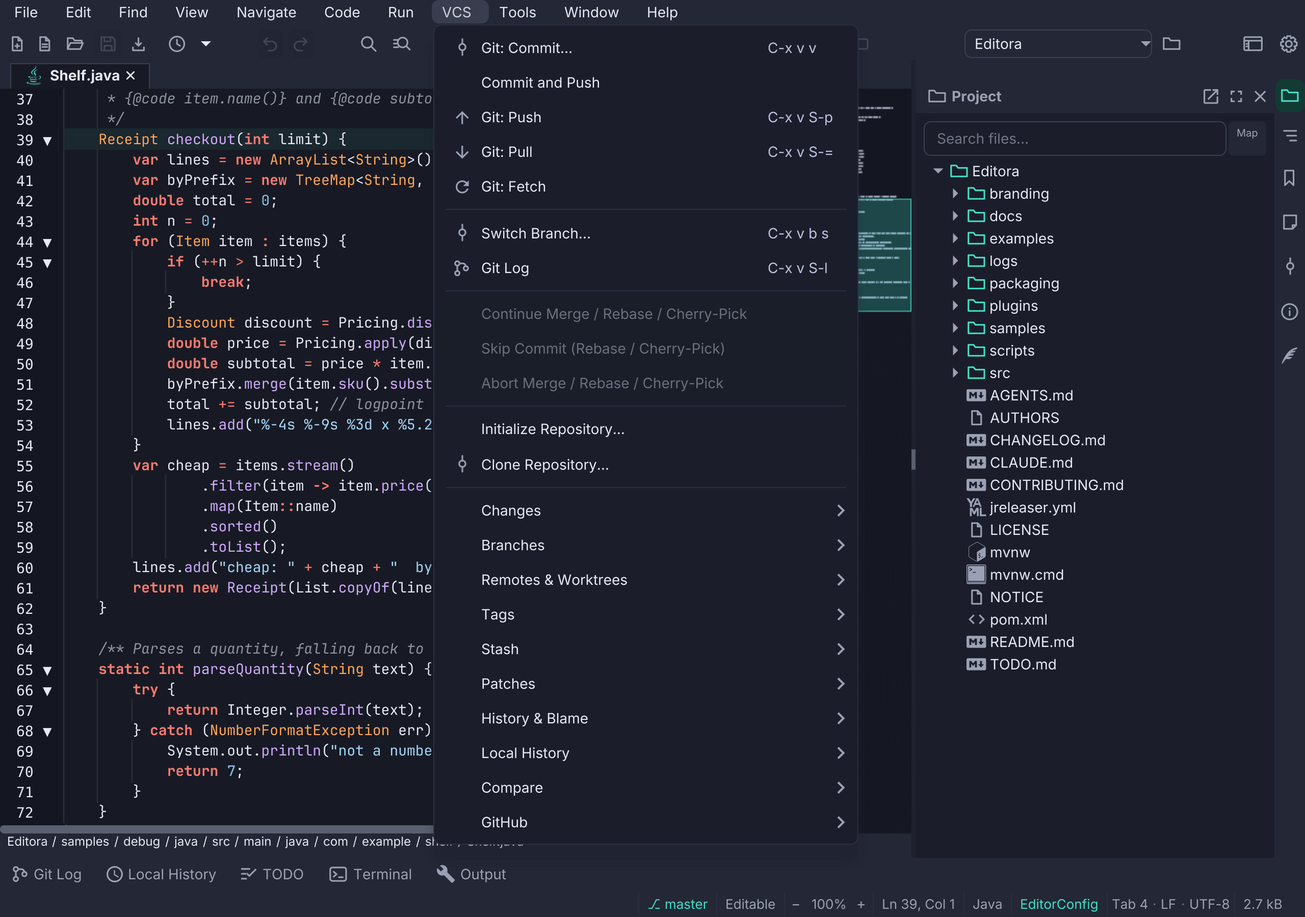
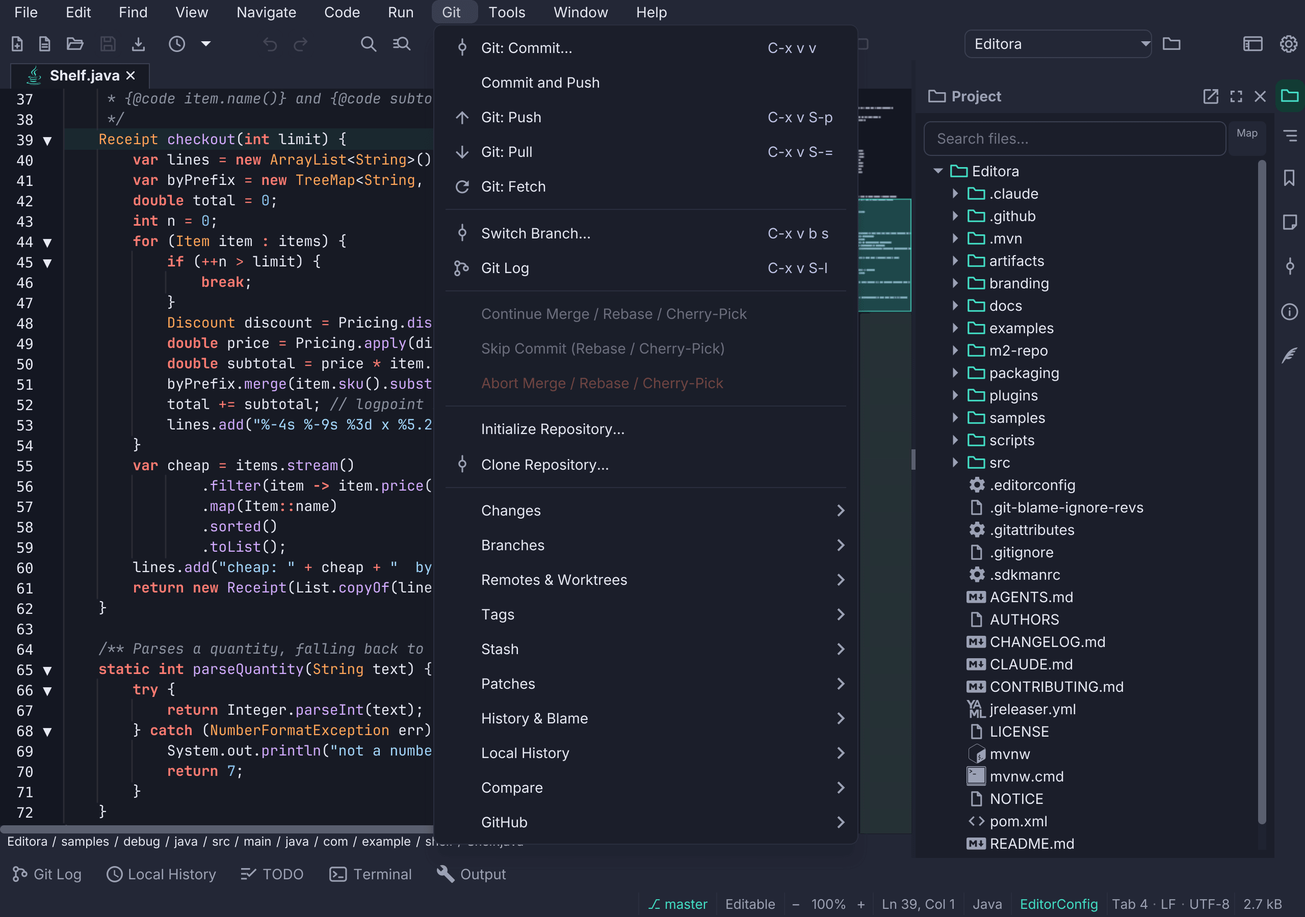
docs: the Git menu, Run's debugger submenus, New Maven Project
Follows Editora #1593:

- The VCS menu is named Git: git, github, workspace, getting-started and
  the menu-bar feature page (and GenFeatures).
- Run > Debugger is four submenus (Launch and Attach, Stepping,
  Breakpoints, Debugger): the Run menu overview in run-debug lists them,
  and each mention names the submenu its command is in.
- "Maven: New Project…" is "Maven: New Maven Project…" (build-tools,
  commands.ts by hand until the next generation).
- Encrypt File is no longer in Simple UI mode's File menu.
- menu-bar.png, its dark twin and thumbnail are reshot from the #1593
  branch, with the menu titled Git.

diff --git a/src/lib/commands.ts b/src/lib/commands.ts
@@ -751,8 +751,8 @@ export const commandGroups: CmdGroup[] = [
       { title: "Leiningen: Run Custom Task(s)…", id: "lein.runCustom", desc: "Prompt for a freeform Leiningen task/argument string and run it." },
       { title: "Leiningen: Show Actions", id: "lein.showActions", desc: "Open the Leiningen actions popup (run, test, check, uberjar and the other common lein tasks)." },
       { title: "Leiningen: Stop", id: "lein.stop", desc: "Stop the running Leiningen process." },
-      { title: "Maven: New Project…", id: "maven.newProject", desc: "Create a new Maven project from an archetype and open it in its own window." },
-      { title: "Maven: New Project in Folder…", id: "maven.newProjectHere", desc: "Ask for a folder, then create a new Maven project inside it." },
+      { title: "Maven: New Maven Project…", id: "maven.newProject", desc: "Create a new Maven project from an archetype and open it in its own window." },
+      { title: "Maven: New Maven Project in Folder…", id: "maven.newProjectHere", desc: "Ask for a folder, then create a new Maven project inside it." },
       { title: "Maven: Refresh pom.xml", id: "maven.refresh", desc: "Force re-parse the detected pom.xml now (e.g. after an external edit)." },
       { title: "Maven: Rerun Last", id: "maven.rerunLast", desc: "Re-run the most recent Maven goal/phase invocation." },
       { title: "Maven: Run Custom Goal(s)…", id: "maven.runCustom", desc: "Prompt for a freeform Maven goal/phase string and run it." },

diff --git a/scripts/GenFeatures.java b/scripts/GenFeatures.java
@@ -201,16 +201,16 @@ Browse the [full command list](/commands) or the [keybindings reference](/keybin
 """),
     new Feature("menu-bar", KB, 8, false,
         "A menu bar, over the same commands",
-        "<strong>File / Edit / Find / View / Navigate / Code / Run / VCS / Tools / Window / Help</strong> menus, built over the command registry, so every item shows its live keybinding. Hide it in one keystroke.",
+        "<strong>File / Edit / Find / View / Navigate / Code / Run / Git / Tools / Window / Help</strong> menus, built over the command registry, so every item shows its live keybinding. Hide it in one keystroke.",
         """
 The command palette lists everything, but it is hard to browse. It helps when you know roughly what a command is called, and less when you want to see what the editor can do. The menu bar is for that.
 
-**File / Edit / Find / View / Navigate / Code / Run / VCS / Tools / Window / Help.** Every item names a registered [command](/features/command-driven-core), the same object the palette lists and the keymap binds, so the menu cannot drift out of step with what Editora can do.
+**File / Edit / Find / View / Navigate / Code / Run / Git / Tools / Window / Help.** Every item names a registered [command](/features/command-driven-core), the same object the palette lists and the keymap binds, so the menu cannot drift out of step with what Editora can do.
 
 - Each entry shows its **current keybinding**, and updates when you [switch keymaps](/features/keymaps).
 - A command whose feature is switched off appears **greyed rather than vanishing**, so the menu stays a stable map instead of rearranging itself as you toggle features.
 - Almost every item that can carry an **icon** does, and it is the same glyph you see for that action in a right-click menu, so Save looks the same wherever you reach it from. About a third are left blank rather than given an invented glyph. The icon column is reserved either way, so the titles still line up.
-- Menus that grew long keep their daily items at the top and the rest one level down: VCS groups its commands by what they act on, and File keeps its export formats under **Export**.
+- Menus that grew long keep their daily items at the top and the rest one level down: Git groups its commands by what they act on, Run keeps the debugger's in four submenus, and File keeps its export formats under **Export**.
 - On **macOS** it sits in the system menu bar.
 
 It is a curated subset. Editora registers over seven hundred commands, and a menu listing all of them would be harder to use than the palette, which remains the complete index.
@@ -1242,7 +1242,7 @@ static final Map<String, String> ALT = Map.ofEntries(
     Map.entry("macros", "The command palette filtered by \"macro\", listing the macro commands with F3, F4 and C-x e"),
     Map.entry("markdown-preview", "A Markdown file in Split view, with headings, a task list and a table rendered beside the source"),
     Map.entry("mcp", "Settings → MCP Server with the loopback MCP server turned on"),
-    Map.entry("menu-bar", "The VCS menu open, listing Git commands with their keybindings and submenus such as Branches and Stash"),
+    Map.entry("menu-bar", "The Git menu open, listing its commands with their keybindings and submenus such as Branches and Stash"),
     Map.entry("mermaid", "A Mermaid flowchart in Split view, with the rendered diagram beside its source"),
     Map.entry("multiple-cursors", "Five carets in a column of Java lines, the same word typed at each"),
     Map.entry("plugins", "The Browse Plugins picker listing registry plugins with their versions and descriptions"),

diff --git a/src/content/docs/run-debug.md b/src/content/docs/run-debug.md
@@ -899,13 +899,20 @@ script as it runs.
 The keys are the Emacs keymap's; the other keymaps' keys are listed under
 [Debugger keys](/docs/keymaps#debugger-keys). The step commands are also
 buttons in the Debug window, and most debugger actions are in the **Run** menu.
-Its top level has Start / Continue, Debug Main Class, Attach, Attach to
-Process, Reattach, Stop, Stop All, Restart and Toggle Breakpoint. Start
-Configuration, Start Compound, Edit Compounds, stepping (by line or by instruction), evaluate, watches, pinned values,
-hexadecimal values, Debug History, breakpoints (with logpoints, triggered breakpoints,
-groups, and export and import), the Threads, Loaded Sources, Modules,
-Disassembly and Memory views, Edit Debug Adapters, exception breakpoints and Show Exception are
-in its **Debugger** submenu (**Run ▸ Debugger**).
+Its top level has Start / Continue, Debug Main Class, Attach, Stop, Stop All
+and Restart. The rest is in four submenus:
+
+- **Launch and Attach**: Run and Debug Selected Configuration, Start
+  Configuration, Start Compound, Edit Compounds, Attach to Process, Reattach,
+  Debug in Browser and Attach to Browser.
+- **Stepping**: Pause, stepping by line or by instruction, Run to Cursor, Force
+  Run to Cursor and Restart Frame.
+- **Breakpoints**: Toggle Breakpoint and the other kinds of breakpoint (with
+  logpoints and triggered breakpoints), Edit Breakpoint, the breakpoint list,
+  groups, export and import, Mute Breakpoints and the exception breakpoints.
+- **Debugger**: Apply Code Changes, evaluate, watches, pinned values,
+  hexadecimal values, Show Exception, Debug History, the Threads, Loaded
+  Sources, Modules, Disassembly and Memory views, and Edit Debug Adapters.
 
 **Jump to Line** moves the program to another line without running the code in
 between. It needs a debugger that can do that: Python's debugpy can. The Java
@@ -916,7 +923,7 @@ breakpoint or logpoint on the way stops it, in any file. Exception breakpoints
 still stop the program. The breakpoints are back at the next stop, wherever
 that is: the caret line, an exception, or Pause. Its keys are `C-c C-d S-u` in
 the Emacs keymap and Ctrl+Alt+F9 (⌥⌘F9 on macOS) in the IntelliJ IDEA keymap;
-it is also in **Run ▸ Debugger** and, while the program is paused, in the
+it is also in **Run ▸ Stepping** and, while the program is paused, in the
 editor's right-click menu.
 
 The Debug window has a threads and call-stack view, a lazy variables tree with
@@ -1095,8 +1102,8 @@ exception, the status bar says so.
 
 ### Attach to Process
 
-**Debug: Attach to Process…** (`debug.attachToProcess`, in the **Run** menu
-under Attach) lists the Java, Node.js, Python, Go, Rust, C and C++ programs
+**Debug: Attach to Process…** (`debug.attachToProcess`, in **Run ▸ Launch and
+Attach**) lists the Java, Node.js, Python, Go, Rust, C and C++ programs
 running on this machine under your user, so you can attach to one without typing its address.
 It is also the last row, *A program on this machine…*, of the
 [Attach list](#starting-a-java-session) a Java file shows once the project has
@@ -1358,8 +1365,8 @@ listening on it.
 
 **Debug: Reattach** (`debug.reattach`, `C-c C-d S-a`) attaches again to the
 address this project attached to last, without asking. Before the first attach,
-the status bar says to use Attach to Running Program. Reattach is in the
-**Run** menu, under Attach.
+the status bar says to use Attach to Running Program. Reattach is in
+**Run ▸ Launch and Attach**.
 
 When Java debugging can't start, the status bar names the missing
 piece: LSP is off, the Java language server is turned off, or jdtls or
@@ -1378,14 +1385,14 @@ When you step into JDK or library code anyway, or click such a frame in the
 call stack, its source opens in a read-only tab. A stop at a breakpoint, a
 Pause or an exception still selects the nearest frame of your own code.
 
-**Debug: Smart Step Into…** (`C-c C-d s`, also in Run ▸ Debugger) lists the
+**Debug: Smart Step Into…** (`C-c C-d s`, also in Run ▸ Stepping) lists the
 calls on the current line in the order they run, for example `twice(1)`,
 `twice(2)` and `add(twice(1), twice(2))`. Pick one to step into it. On a line
 with a single call it steps straight in. The list closes when the program runs
 on.
 
 **Debug: Restart Frame** (`C-c C-d f`, the call stack's right-click menu, or
-Run ▸ Debugger) runs the method of the selected frame again from its first line
+Run ▸ Stepping) runs the method of the selected frame again from its first line
 and pauses there. It is greyed out on the bottom frame.
 
 If the connection to the debugger is lost, Editora ends the program at once and
@@ -1588,15 +1595,15 @@ removing it, until you run it again. It also stops exception breakpoints from
 stopping the program; your caught and uncaught choices come back when you turn
 it off. While breakpoints are muted, every glyph is faded, a glyph's hover says
 that none of them stops the program, Mute Breakpoints is checked in
-Run ▸ Debugger, and the Debug window's state line says "breakpoints muted".
+Run ▸ Breakpoints, and the Debug window's state line says "breakpoints muted".
 Editora keeps the choice for each project, so a muted project is still muted
 when you open it again. **Debug: Enable / Disable Breakpoint** (`C-c C-d t`)
 switches the breakpoint on the caret line. These commands are in
-**Run ▸ Debugger**.
+**Run ▸ Breakpoints**.
 
 **Debug: Break on Caught Exceptions** stops wherever an exception is thrown,
 even one the program catches. **Debug: Break on Uncaught Exceptions** stops on
-an exception that nothing catches. Both are in Run ▸ Debugger, checked when on,
+an exception that nothing catches. Both are in Run ▸ Breakpoints, checked when on,
 and in the menu of the ⚠ button in the Debug window's toolbar. While either is
 on, the ⚠ is drawn in the accent colour, and its tooltip says which are on.
 They act on the running session's language, or else on the active file's, and
@@ -1619,7 +1626,7 @@ and VS Code calls them logpoints.
 To add one in a single step, **Shift+click** the breakpoint gutter on the line,
 as in IntelliJ, or run **Debug: Add Logpoint…** (`debug.addLogpoint`;
 `C-c C-d g` in the Emacs keymap) on the caret line. It is also in the editor's
-right-click **Breakpoints** submenu and in **Run ▸ Debugger**. A small form,
+right-click **Breakpoints** submenu and in **Run ▸ Breakpoints**. A small form,
 *Add Logpoint* with the file and line in its title, asks only for the
 **Log message**. Put an expression in braces to include its value:
 `{item.name}: total = {total}`. While the program is paused, the field completes
@@ -1658,7 +1665,7 @@ on the caret line:
   keeping its condition and hit count;
 - on a line with a temporary breakpoint, it removes it.
 
-The command is also in **Run ▸ Debugger** and the editor's right-click
+The command is also in **Run ▸ Breakpoints** and the editor's right-click
 **Breakpoints** submenu. In **Edit Breakpoint**, **Remove once hit** turns any breakpoint into a
 temporary one, or back.
 
@@ -1684,7 +1691,7 @@ IntelliJ's non-suspending breakpoints do, with the values kept instead of
 logged.
 
 **Debug: Toggle Recording Breakpoint** (`debug.toggleRecordingBreakpoint`, in
-**Run ▸ Debugger** and the editor's right-click **Breakpoints** submenu) works
+**Run ▸ Breakpoints** and the editor's right-click **Breakpoints** submenu) works
 on the caret line:
 
 - on a line without a breakpoint, it adds a recording one;
@@ -1722,7 +1729,7 @@ for already is ticked, and choosing it again makes the breakpoint stop as
 usual. The list leaves out any breakpoint that waits, directly or through
 others, for this one, so two breakpoints never wait for each other. With no
 other breakpoint to wait for, the status bar says to set that one first. The
-command is in the palette, **Run ▸ Debugger**, the editor's right-click
+command is in the palette, **Run ▸ Breakpoints**, the editor's right-click
 **Breakpoints** submenu and a breakpoint's gutter menu. In **Edit
 Breakpoint**, the **Wait for** field does the same; choose *No other
 breakpoint* to stop waiting.
@@ -1753,7 +1760,7 @@ program, can stay set while you work on something else.
 
 **Debug: Move Breakpoint to Group…** (`debug.moveBreakpointToGroup`) asks for
 the group of the caret line's breakpoint: pick one of the groups there are,
-type a new name, or leave it blank for none. It is in **Run ▸ Debugger**, the
+type a new name, or leave it blank for none. It is in **Run ▸ Breakpoints**, the
 editor's right-click **Breakpoints** submenu and a breakpoint's gutter menu. On
 a line without a breakpoint, the status bar says so. In **Edit Breakpoint**,
 the **Group** field does the same.
@@ -1792,7 +1799,7 @@ set, 0 in files not found.* A running session gets the imported breakpoints at
 once, in open files and closed ones. A file that isn't an Editora breakpoints
 file, or one written by a newer Editora, is refused, and nothing is imported.
 
-Both commands are in **Run ▸ Debugger** and the palette.
+Both commands are in **Run ▸ Breakpoints** and the palette.
 
 ### Lambda breakpoints
 
@@ -1809,7 +1816,7 @@ breakpoint that stops inside the lambda the caret is in, or the first one on
 the caret's line, each time its body runs, with the lambda's parameters in
 Variables. Its keys are Shift+F9 (⇧F9 on macOS) in the VS Code, CUA and Sublime
 Text keymaps and `C-c C-d S-l` in the Emacs keymap. It is in
-**Run ▸ Debugger**, and in the editor's right-click **Breakpoints** submenu on
+**Run ▸ Breakpoints**, and in the editor's right-click **Breakpoints** submenu on
 a line that starts a lambda.
 
 - On a line without a breakpoint, it adds one that stops only in that lambda.
@@ -1861,7 +1868,7 @@ not the method in a subclass. **Debug: Toggle Field Watchpoint**
 (`debug.toggleFieldWatchpoint`, `C-c C-d S-w`) stops the program when the
 field declared on the caret line is assigned, in any instance of the class.
 Run either again on the same method or field to remove it; the status bar says
-what was added or removed. Both are in **Run ▸ Debugger**. The IntelliJ IDEA
+what was added or removed. Both are in **Run ▸ Breakpoints**. The IntelliJ IDEA
 keymap has no keys for them.
 
 Away from a method or field, they ask for one by name: the class, `#`, and the
@@ -2337,7 +2344,7 @@ While the Disassembly list has the keyboard, **Step Over** and **Step Into**
 step one instruction at a time instead of one line, as in VS Code's
 Disassembly view. **Debug: Step Over Instruction**
 (`debug.stepOverInstruction`) and **Debug: Step Into Instruction**
-(`debug.stepIntoInstruction`), in **Run ▸ Debugger**, do it from anywhere; Step
+(`debug.stepIntoInstruction`), in **Run ▸ Stepping**, do it from anywhere; Step
 Into Instruction follows a call into the called function. With a debugger that
 steps only by line, they say so in the status bar.
 
@@ -2805,8 +2812,8 @@ at your breakpoints.
 
 ### launch.json configurations
 
-**Debug: Start Configuration…** (`debug.startConfiguration`, in **Run ▸
-Debugger**) lists the configurations of the project's `.vscode/launch.json`, or
+**Debug: Start Configuration…** (`debug.startConfiguration`, in **Run ▸ Launch
+and Attach**) lists the configurations of the project's `.vscode/launch.json`, or
 of the nearest one above the active file, and its [compounds](#compounds), and
 starts the one you pick as VS Code would. A configuration started while a
 session runs is debugged beside it, in a session of its own
@@ -2879,7 +2886,7 @@ status bar names the missing one.
 
 A **compound of run configurations** debugs the project's saved
 [run configurations](#run-configurations) together. **Debug: Edit
-Compounds…** (`debug.editCompounds`, in **Run ▸ Debugger**) opens the
+Compounds…** (`debug.editCompounds`, in **Run ▸ Launch and Attach**) opens the
 **Compounds** window: the project's compounds on the left and, for the one
 selected, its **Name**, the **Run configurations to debug together** to tick,
 and **Stopping one stops them all**. **Add** makes a compound, **Remove**
@@ -2891,7 +2898,7 @@ configuration** debugs it, so each must be a kind that can be debugged (see
 
 ![The Compounds window: a compound named Server and worker on the left; on the right its Name, the list Run configurations to debug together with API server and Restock worker ticked and Web client and Price check not, Stopping one stops them all ticked, and Add, Remove, Debug and Close buttons](/screenshots/docs/debug-compounds.png "A compound of two saved run configurations, made in Debug: Edit Compounds….")
 
-**Debug: Start Compound…** (`debug.startCompound`, in **Run ▸ Debugger**) lists
+**Debug: Start Compound…** (`debug.startCompound`, in **Run ▸ Launch and Attach**) lists
 both kinds, the project's own first. Type to filter; **New Compound…**, last in
 the list, opens the Compounds window on a new one.
 

diff --git a/src/content/features/menu-bar.md b/src/content/features/menu-bar.md
@@ -3,18 +3,18 @@ title: "A menu bar, over the same commands"
 group: "Keyboard & commands"
 order: 8
 beta: false
-summary: "<strong>File / Edit / Find / View / Navigate / Code / Run / VCS / Tools / Window / Help</strong> menus, built over the command registry, so every item shows its live keybinding. Hide it in one keystroke."
-alt: "The VCS menu open, listing Git commands with their keybindings and submenus such as Branches and Stash"
+summary: "<strong>File / Edit / Find / View / Navigate / Code / Run / Git / Tools / Window / Help</strong> menus, built over the command registry, so every item shows its live keybinding. Hide it in one keystroke."
+alt: "The Git menu open, listing its commands with their keybindings and submenus such as Branches and Stash"
 ---
 
 The command palette lists everything, but it is hard to browse. It helps when you know roughly what a command is called, and less when you want to see what the editor can do. The menu bar is for that.
 
-**File / Edit / Find / View / Navigate / Code / Run / VCS / Tools / Window / Help.** Every item names a registered [command](/features/command-driven-core), the same object the palette lists and the keymap binds, so the menu cannot drift out of step with what Editora can do.
+**File / Edit / Find / View / Navigate / Code / Run / Git / Tools / Window / Help.** Every item names a registered [command](/features/command-driven-core), the same object the palette lists and the keymap binds, so the menu cannot drift out of step with what Editora can do.
 
 - Each entry shows its **current keybinding**, and updates when you [switch keymaps](/features/keymaps).
 - A command whose feature is switched off appears **greyed rather than vanishing**, so the menu stays a stable map instead of rearranging itself as you toggle features.
 - Almost every item that can carry an **icon** does, and it is the same glyph you see for that action in a right-click menu, so Save looks the same wherever you reach it from. About a third are left blank rather than given an invented glyph. The icon column is reserved either way, so the titles still line up.
-- Menus that grew long keep their daily items at the top and the rest one level down: VCS groups its commands by what they act on, and File keeps its export formats under **Export**.
+- Menus that grew long keep their daily items at the top and the rest one level down: Git groups its commands by what they act on, Run keeps the debugger's in four submenus, and File keeps its export formats under **Export**.
 - On **macOS** it sits in the system menu bar.
 
 It is a curated subset. Editora registers over seven hundred commands, and a menu listing all of them would be harder to use than the palette, which remains the complete index.

diff --git a/src/content/docs/git.md b/src/content/docs/git.md
@@ -61,7 +61,7 @@ itself on every save are a separate feature,
 | Create a repository in a folder | `git.init` | (palette) |
 | Refresh | `git.refresh` | (palette) |
 
-The **VCS** menu keeps the daily actions at the top level (Commit, Commit and
+The **Git** menu keeps the daily actions at the top level (Commit, Commit and
 Push, Push, Pull, Fetch, Switch Branch, Git Log, and Continue / Skip / Abort)
 and groups the rest into submenus: Changes, Branches, Remotes & Worktrees, Tags,
 Stash, Patches, History & Blame, and Compare.
@@ -214,7 +214,7 @@ Branch, Pull, Fetch, Push, and the like), then **Local** branches with the
 current one first, then **Remote** branches, grouped by remote when there are
 several. It opens with the current branch selected. Clicking a row checks the
 branch out. A row's `⋯` button, a right-click, or the Menu key opens its
-actions; the same actions are in the palette and under **VCS ▸ Branches**.
+actions; the same actions are in the palette and under **Git ▸ Branches**.
 
 Each section folds to its header: click the header, or select it and press
 Enter, ← or →. A folded header shows how many rows it hides, and the choice is
@@ -322,7 +322,7 @@ loads more as you scroll, a page at a time, so it reaches the whole history
 **Show Git History** (`git.fileHistory`; `C-x v l`, or Ctrl+Alt+Shift+H in the
 other keymaps, ⌃⇧⌘H on macOS) lists the commits that changed the active file, in the Git Log
 tool window under a **Git history: name** chip. It is also in a tab's menu, the
-Project tree, and **VCS ▸ History & Blame**.
+Project tree, and **Git ▸ History & Blame**.
 
 - **Enter** or a double-click on a commit opens what it changed in that file.
   The row's menu starts with **Show Diff** and **Compare with Working Tree**,

diff --git a/src/content/docs/encrypted-files.md b/src/content/docs/encrypted-files.md
@@ -96,7 +96,7 @@ and decrypts the new content.
 ## Encrypt a file
 
 **Encryption: Encrypt File…** (`crypto.encryptFile`) encrypts the active file.
-It is in **Tools ▸ Encryption** (in Simple UI mode, the **File** menu), and
+It is in **Tools ▸ Encryption**, and
 **Encrypt…** on a tab's right-click menu and on a file's right-click menu in
 the Project tree. It opens the [recipient picker](#the-recipient-picker),
 then writes the encrypted file beside the original: `notes.md` becomes
@@ -197,8 +197,8 @@ on purpose: after asking, it saves the text as the plain file beside it
 
 ## Encryption commands
 
-All of these are in **Tools ▸ Encryption** and the command palette. In
-Simple UI mode, **Encrypt File…** is in the **File** menu.
+All of these are in **Tools ▸ Encryption** and the command palette. Simple UI
+mode has no Tools menu, so there they are in the palette.
 
 | Action | Command |
 | --- | --- |

diff --git a/src/content/docs/build-tools.md b/src/content/docs/build-tools.md
@@ -304,10 +304,10 @@ a file that isn't itself a `pom.xml`.
 
 ### New Maven Project
 
-**Maven: New Project…** (`maven.newProject`) creates a project from an
+**Maven: New Maven Project…** (`maven.newProject`) creates a project from an
 archetype and opens it in its own window. It is in the File menu, in the
 Project tree's **New ▸** submenu on a folder, and in the palette, where
-**Maven: New Project in Folder…** (`maven.newProjectHere`) asks for the parent
+**Maven: New Maven Project in Folder…** (`maven.newProjectHere`) asks for the parent
 folder first. It runs your own Maven (the command override, else `mvn` on your
 `PATH`), never a wrapper found in the target folder, and says so before the
 wizard opens when there is none. That Maven runs on the **Default JDK** chosen

diff --git a/src/content/docs/workspace.md b/src/content/docs/workspace.md
@@ -1132,7 +1132,7 @@ row).
 
 ![The Local History tool window beside a Java file: the file's revisions newest first under day captions, each with its time and reason, the selected one shown as a side-by-side diff against the current text with Restore](/screenshots/features/local-file-history.png "Local History: every save and auto-save of the file, each one a diff away.")
 
-The same three are under **VCS ▸ Local History**, and *Show Local History* is in
+The same three are under **Git ▸ Local History**, and *Show Local History* is in
 a tab's right-click menu and in the Project tree. Git's per-file log is a
 separate command, [Show Git History](/docs/git#git-log).
 

diff --git a/src/content/docs/github.md b/src/content/docs/github.md
@@ -292,9 +292,9 @@ repository, asks GitHub whether there is an open pull request, an open issue, or
 a workflow run. These background calls don't spin the tool window's spinner and
 aren't written to the Output console's **GitHub** transcript.
 
-## The VCS menu
+## The Git menu
 
-**VCS ▸ GitHub** is a submenu holding the GitHub commands: the tool window and
+**Git ▸ GitHub** is a submenu holding the GitHub commands: the tool window and
 its three segments, create, review, check out and submit review, the checks list
 and the CI failure log, the run actions, **Open File on GitHub**, **Copy URL of
 Selected Row**, and **Refresh**.

diff --git a/src/content/docs/getting-started.md b/src/content/docs/getting-started.md
@@ -226,7 +226,7 @@ want, run **Search Everywhere** and type its name. See
 [Navigation & search](/docs/navigation#search-everywhere).
 
 If you'd rather browse than recall, there is also a **menu bar** (File / Edit /
-Find / View / Navigate / Code / Run / VCS / Tools / Window / Help) built over
+Find / View / Navigate / Code / Run / Git / Tools / Window / Help) built over
 the same commands, with each item showing its current keybinding. Its **Help**
 menu links to the documentation for the version you are running.
 
